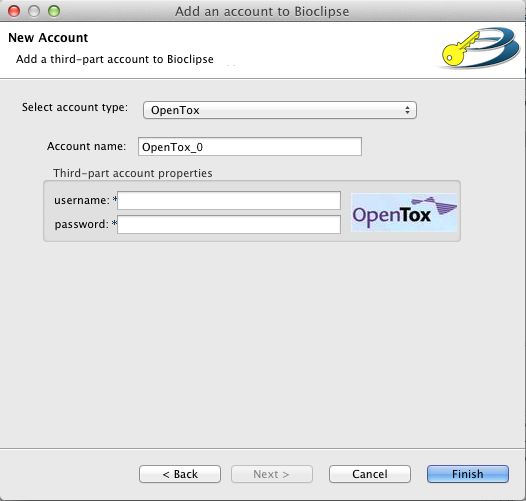
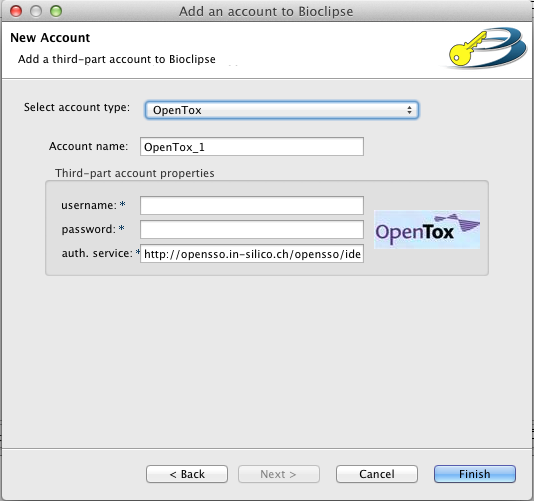
Updates the image for adding a third-part account, and change all 'log-in' (and 'log in') to one word

diff --git a/plugins/net.bioclipse.ui/html/usermanager/accountWizardHelp.html b/plugins/net.bioclipse.ui/html/usermanager/accountWizardHelp.html
@@ -20,7 +20,7 @@ href="usingPrefs.html">Using Preferences</a>. Or by using the wizard found under
 <a name="Wizard"><h2>Using the wizard</h2></a>
 This is probably the easiest way, especially if you don't have any Bioclipse
 user-account yet. If you can't find this alternative, it's probably because you
-don't have any feature that needs a log-in installed. Features are simple to
+don't have any feature that needs a login installed. Features are simple to
 install from <b>Install > New Feature</b>, see also the section <a
 href="../tutorials/updating.html">Installing new feature</a> in Bioclipse's
 users manual.
@@ -40,7 +40,7 @@ field, then a password in the next and at last repeat the password in the
 bottom-field. Then click the next button, to continue with adding a third-part
 account to your newly created user-account (see further in the section <a
 href="#Wizard3part">Add a third-part account</a> below).<br> If there already
-exists one or more user-accounts the wizard will ask you to log-in, do so. Or if
+exists one or more user-accounts the wizard will ask you to login, do so. Or if
 you for some reason wants to create a new account; click on the button with the
 label <b>Create new account...</b> to the left beneath the password-field, this
 will show a dialog where you can create a new user-account in the same way as
@@ -59,18 +59,18 @@ account.</small></td></tr>
 After creating a new user-account, or logging in to one, it's now time to add a
 new third-part account to your user-account. First choose the account-type, i.e.
 which of the installed features web-services that you want to add a
-log in to. This is done in the dropdown-menu at the top of the window. Only the
+login to. This is done in the dropdown-menu at the top of the window. Only the
 installed features that have have a web-service are visibly. Observe that you
 can only have one account of each type for each Bioclipse account.<br> 
 In the filed with the label "Account name" in-front of it is the name of this
 third-part account, but you can choose another name and write that in this field
 instead. In the fields below you add the information that is needed for
-Bioclipse to be able to log in to the web-service. As stated in the
+Bioclipse to be able to login to the web-service. As stated in the
 introduction, it will in most cases be a field for our username and one for the
 password to the service. Fill in those fields, and then click the finish-button.
-The wizard will now log in to your Bioclipse account and you will see a green
+The wizard will now login to your Bioclipse account and you will see a green
 padlock in status line at the bottom of the Bioclipse window.<br> 
-If some reason Bioclipse failed to log-in to any of your third-part accounts,
+If some reason Bioclipse failed to login to any of your third-part accounts,
 you will get a dialog telling you which of them that failed. See more about that
 in the section <a href="loginoutHelp.html">Logging in and out</a>. 
 </body> 
